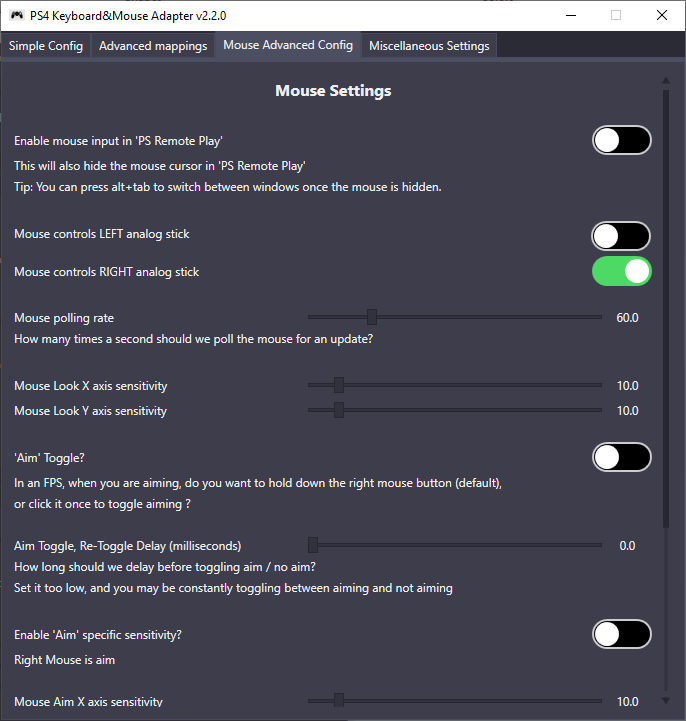
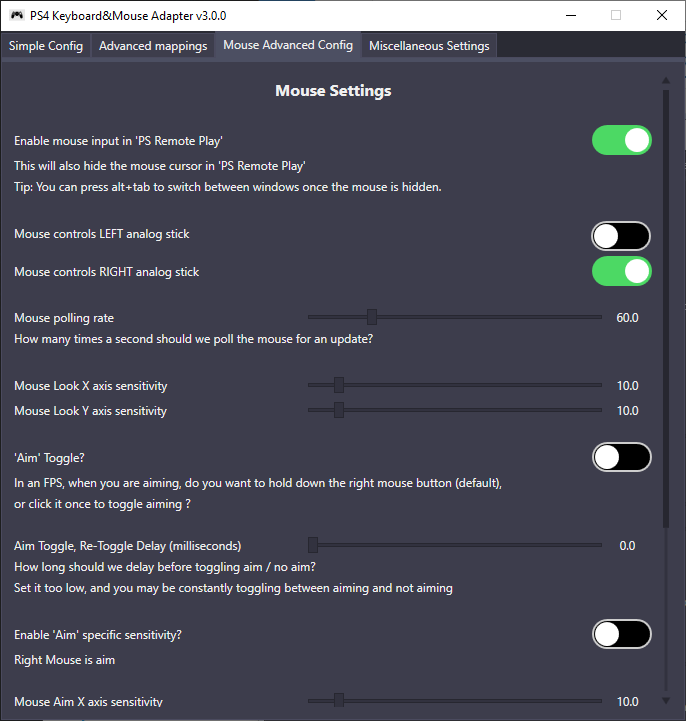
3.0.0 wip - documentation updates

Changed region(s): [[0.8571, 0.1526, 0.949, 0.2136], [0.2755, 0.0, 0.3367, 0.0305], [0.9796, 0.9764, 1.0, 1.0]]

diff --git a/README.md b/README.md
@@ -9,7 +9,8 @@ Click the images for bigger views
 Welcome Screen <br>
 <a href="documentation/welcome-1.png" target="_blank"><img src="documentation/welcome-1.png" alt="example welcome screen 1" width="280px"/></a>
 <a href="documentation/welcome-2.png" target="_blank"><img src="documentation/welcome-2.png" alt="example welcome screen 2" width="280px"/></a>
-
+<a href="documentation/welcome-3.png" target="_blank"><img src="documentation/welcome-3.png" alt="example welcome screen 3" width="280px"/></a>
+<a href="documentation/welcome-4.png" target="_blank"><img src="documentation/welcome-4.png" alt="example welcome screen 4" width="280px"/></a>
 
 Main Adapter <br>
 <a href="documentation/example-ui-1.png" target="_blank"><img src="documentation/example-ui-1.png" alt="example UI Tab 1" width="280px"/></a>
@@ -36,15 +37,12 @@ Try our discord here https://discord.gg/zgveKtme5s where you can either suggest 
 
 
 ## To-do list
-* Explicit error message box for when mappings.json is missing or invalid <br> Currently it (kinda) silently fails unless you open it via a command line.
 * some games need to detect you shaking the controller, need to figure out how to handle/emulate that
 * touchpad needs more work :(
-* make DS4 emulation optional
 * support for analog input like from a controller stick, controller trigger, or Steering wheel
-* supporting ps5
-* support linux/mac 
+* supporting ps5 (its a bit hit or miss atm)
 * support chiaki https://git.sr.ht/~thestr4ng3r/chiaki
-
+* support linux/mac 
 
 ## Documentation
 All documentation [here](documentation/)
@@ -56,12 +54,12 @@ But some popular topics are
 * [Version History](documentation/version-history.md)
 
 
-## Credits
+## Shoutouts
 
-- [PS4Macro](https://github.com/komefai/PS4Macro) - Big thanks to komefai for making and open-sourcing this tool. Komefai is MIA for 2 years and his repo is not supported anymore but you can still write pretty good bots with it, definitely check it out if you are into that kind of stuff
-- [PS4RemotePlayInterceptor](https://github.com/komefai/PS4RemotePlayInterceptor) a module by Komefai used in PS4Macro
-- [EasyHook](https://easyhook.github.io) - The best tool for Windows API hooking. Works flawlessly - from the assembly injection, to the hook trampoline code. ~~I haven't had a single problem with it~~ I had one but that doesn't make EasyHook any less cool
-- [Jays2Kings/DS4Windows](https://github.com/Jays2Kings/DS4Windows) - don't need to explain that one
-- [Ryochan7/DS4Windows](https://github.com/Ryochan7/DS4Windows) - don't need to explain that one
-- [soulehshaikh9](https://github.com/soulehshaikh99/self-signed-certificate-generator) for pfx certificate generator
 
+* [DS4Windows](https://github.com/Ryochan7/DS4Windows) - don't need to explain that one
+* [EasyHook](https://easyhook.github.io) - The best tool for Windows API hooking.
+* [PS4Macro](https://github.com/komefai/PS4Macro) - Big thanks to komefai for making and open-sourcing this tool. Komefai is MIA since 2018 and his repo is not supported anymore but you can still write pretty good bots with it, definitely check it out if you are into that kind of stuff
+*[PS4RemotePlayInterceptor](https://github.com/komefai/PS4RemotePlayInterceptor) a module by Komefai used in PS4Macro
+* [soulehshaikh9](https://github.com/soulehshaikh99/self-signed-certificate-generator) for pfx certificate generator
+* [ViGEm.NET](https://github.com/ViGEm/ViGEm.NET) - to help with emulation in v3.0.0+

diff --git a/documentation/version-history.md b/documentation/version-history.md
@@ -1,35 +1,40 @@
 # Version History
 
 
+### v 3.0.0
+* New method of controller emulation (ViGEm)
+
+* Added housekeeping for logs (sorry thought we enabled it ages ago)
+
+* More consistent logging for exceptions
 
 
 ### v 2.2.3
-* Disclaimer - 1/69 checks done by Virus total says we are untrustworthy :( Feel free to browse the source code and make your own opinion.
 
-* fix for "application-extract-me.zip" sometime corrupting itself on first run
-* made update logic smarter so it doesnt try to install v10.20.30 when we are currently running v10.20.30
-* more try catches to catch and log exceptions
-* better logging for exceptions
+* Fix for "application-extract-me.zip" sometime corrupting itself on first run
+
+* Made update logic smarter so it doesnt try to install an update, if we are already running that version <br>
+  For example if we are on v10.20.30 it wont update / redownload v10.20.30
+
+* More try catches to catch and log exceptions
+
+* Better logging for exceptions
 
 
 ### v 2.2.2
-* Disclaimer - 1/69 checks done by Virus total says we are untrustworthy :( Feel free to browse the source code and make your own opinion.
 
-* fixing load default profile not working
+* Fixing load default profile not working
 
 
 ### v 2.2.1
-* Disclaimer - 1/69 checks done by Virus total says we are untrustworthy :( Feel free to browse the source code and make your own opinion.
-
-* adding a second option for installing
+* Adding a second option for installing
   * application-extract-me.zip
   * application-setup.exe
 
 
 ### v 2.2.0
-* Disclaimer - 1/68 checks done by Virus total says we are untrustworthy :( Feel free to browse the source code and make your own opinion. <br> https://www.virustotal.com/gui/file/24bffc022f043899dc19ad65f651b1348ae7badef34df24500a64df76095e5c2/detection I suspect this is due to the extra logging we have added to diagnose issues.
-
 * Added Welcome screen to adapter (this is to highlight common fixes to users (for some of the most common problems observed))
+
 * Added much more detailed logging (thus when you submit an issue with logs it should help us analyse it)
 
 

diff --git a/documentation/frequently-asked-questions.md b/documentation/frequently-asked-questions.md
@@ -53,8 +53,8 @@ AKA
 * Is Dualsense supported?
 * Is PS5 supported?
 
-I do not have a PS5 console to test this myself, but it should work <br>
-I do expect some bugs to be raised - originally PS5 was not going to let you use PS4 controllers for PS5 games and vice versa.
+It does (or atleast I have had several people say it works) <br>
+But I do not have a PS5 console to test this myself, so I do expect some bugs to be raised. Note originally PS5 was not going to let you use PS4 controllers for PS5 games and vice versa.
 
 
 
@@ -74,7 +74,7 @@ I would like to remind you this application is **free**.
 
 
 ### Is using a mouse and keyboard cheating?
-No.
+IMO No.
 
 Sony has licensed Hori products https://www.playstation.com/en-us/explore/accessories/specialty-controllers/, and Hori has provided mouse and keyboard options https://www.amazon.co.uk/HORI-Tactical-Assault-Commander-Pro/dp/B01K7JEII8
 

diff --git a/documentation/known-game-issues.md b/documentation/known-game-issues.md
@@ -1,5 +1,5 @@
 # Known Game Issues
-(newest update for a game at the top)
+**(newest news for a game at the top)**
 
 ## Destiny 2
 2021.01.19 <br>
@@ -11,3 +11,8 @@ Button mappings are messed up https://www.bungie.net/en/Forums/Post/257510223 <b
 
 ## Last of us
 Requires you to shake the controller to activate flash light. Our adapter doesnt have a shake function.
+
+
+## Spiderman PS4
+2021.09.20 <br>
+Some users have trouble moving diagonally

diff --git a/documentation/release-checklist.md b/documentation/release-checklist.md
@@ -1,7 +1,8 @@
 # Release checklist
 
 
-1. If you have updated any dependencies, then delete the packages folder and do a fresh build to check everything is ok.
+1. If you have updated any dependencies, then delete the packages folder and do a fresh build to check everything is ok.<br>
+ ` ./clean.sh ; ./build.sh `
 
 2. Have we enabled the auto update logic in ` AppUpdater.cs `
 
